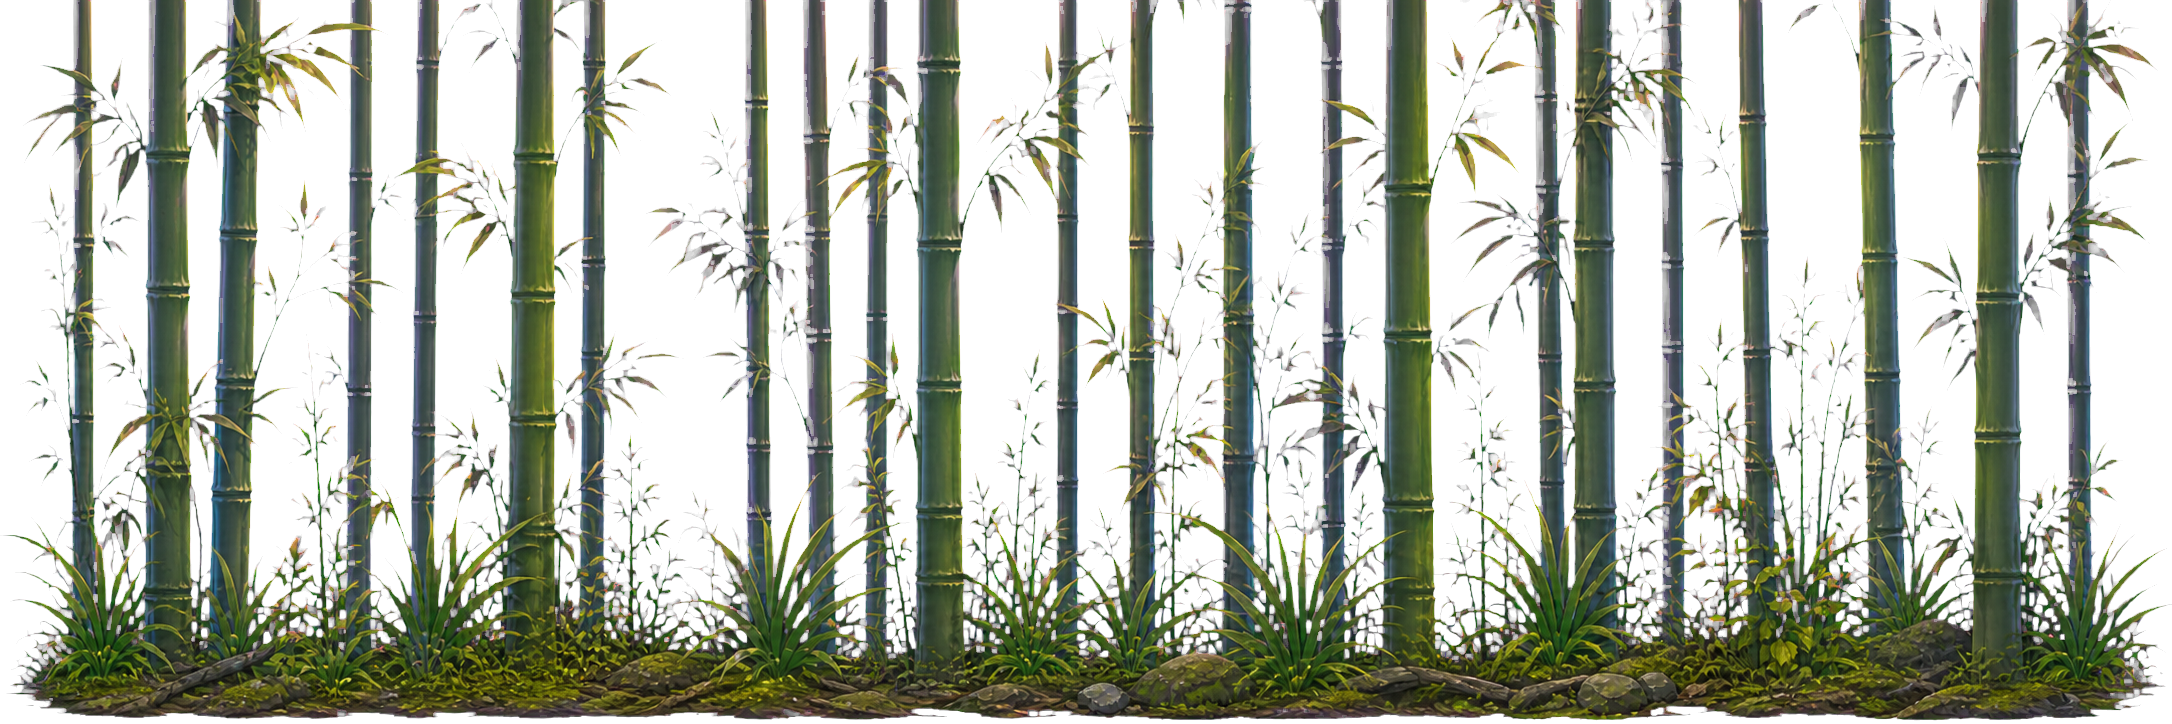
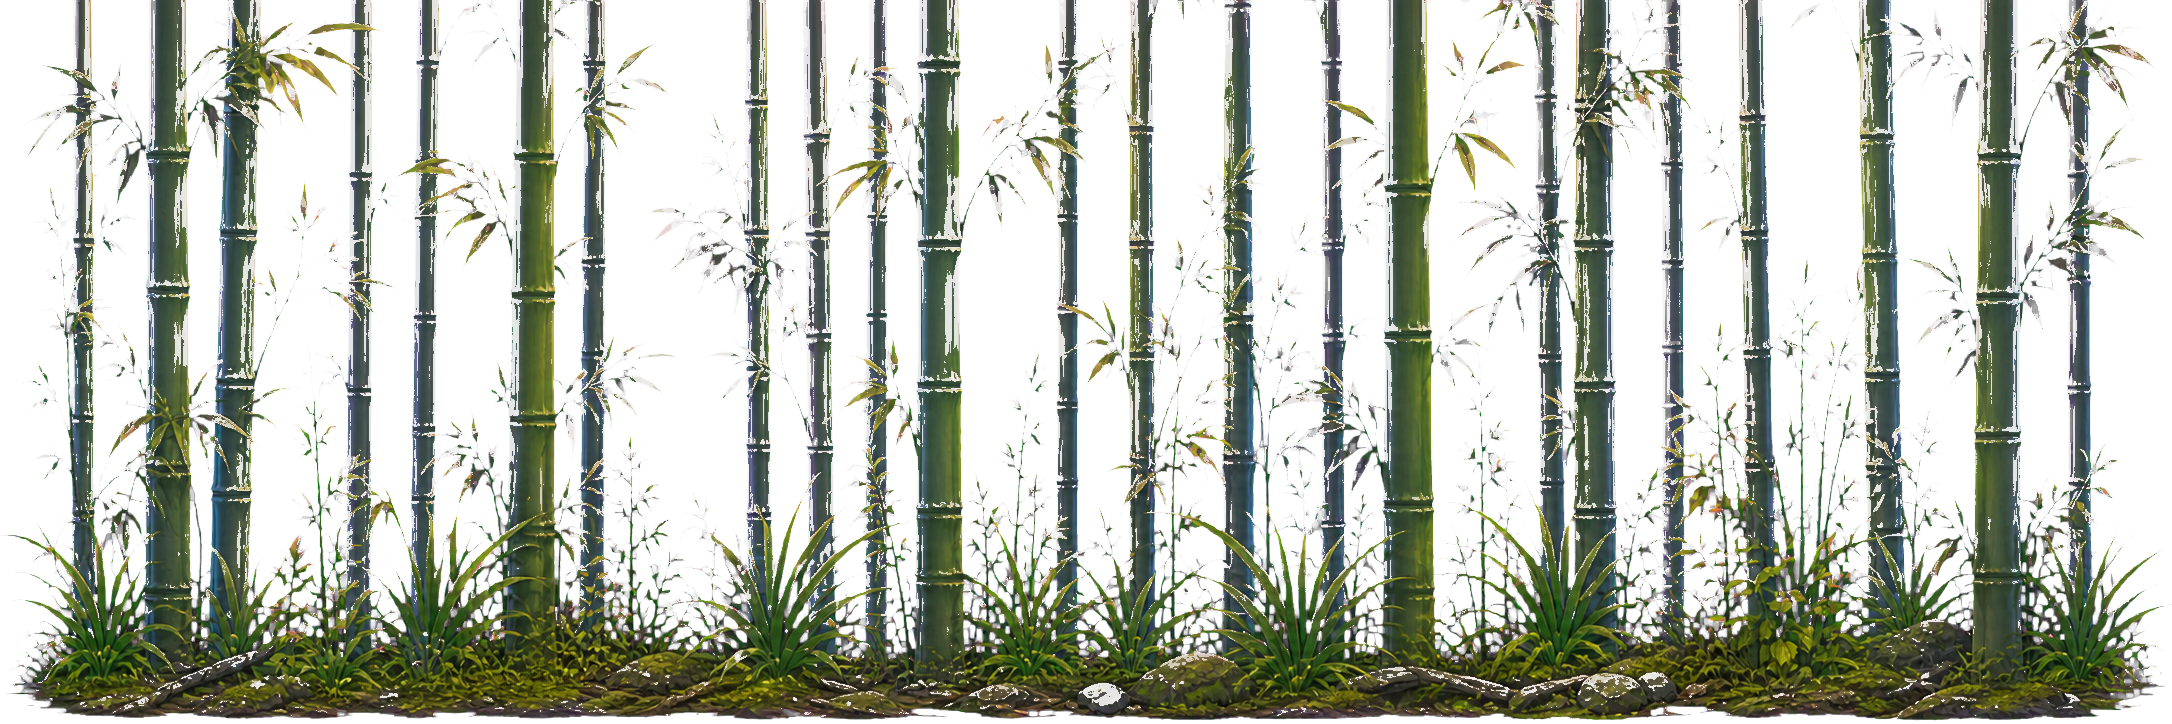
refactor: remove bamboo layer rendering and optimize UI text scaling for mobile responsiveness

diff --git a/js/stage.js b/js/stage.js
@@ -3168,20 +3168,6 @@ export class Stage {
             return false;
         }
 
-        const exitReveal = this.getStage1BambooExitRevealRect();
-        let drawCtx = ctx;
-        let layerCtx = null;
-        if (exitReveal) {
-            this.stage1BambooLayerCanvas ??= document.createElement('canvas');
-            if (this.stage1BambooLayerCanvas.width !== CANVAS_WIDTH || this.stage1BambooLayerCanvas.height !== CANVAS_HEIGHT) {
-                this.stage1BambooLayerCanvas.width = CANVAS_WIDTH;
-                this.stage1BambooLayerCanvas.height = CANVAS_HEIGHT;
-            }
-            layerCtx = this.stage1BambooLayerCanvas.getContext('2d');
-            layerCtx.clearRect(0, 0, CANVAS_WIDTH, CANVAS_HEIGHT);
-            drawCtx = layerCtx;
-        }
-
         const drawStrip = (image, {
             parallax,
             drawHeight,
@@ -3217,65 +3203,65 @@ export class Stage {
                 : 0;
             const drawBentTile = (dx, dy) => {
                 if (bendAmount <= 0) {
-                    drawCtx.drawImage(tileImage, dx, dy);
+                    ctx.drawImage(tileImage, dx, dy);
                     return;
                 }
                 const midStart = Math.floor(drawHeight * 0.34);
                 const lockStart = Math.floor(drawHeight * 0.64);
-                drawCtx.drawImage(tileImage, 0, lockStart, tileWidth, drawHeight - lockStart, dx, dy + lockStart, tileWidth, drawHeight - lockStart);
-                drawCtx.drawImage(tileImage, 0, midStart, tileWidth, lockStart - midStart + 1, dx + bend * 0.38, dy + midStart, tileWidth, lockStart - midStart + 1);
-                drawCtx.drawImage(tileImage, 0, 0, tileWidth, midStart + 1, dx + bend, dy, tileWidth, midStart + 1);
+                ctx.drawImage(tileImage, 0, lockStart, tileWidth, drawHeight - lockStart, dx, dy + lockStart, tileWidth, drawHeight - lockStart);
+                ctx.drawImage(tileImage, 0, midStart, tileWidth, lockStart - midStart + 1, dx + bend * 0.38, dy + midStart, tileWidth, lockStart - midStart + 1);
+                ctx.drawImage(tileImage, 0, 0, tileWidth, midStart + 1, dx + bend, dy, tileWidth, midStart + 1);
             };
 
-            drawCtx.save();
-            drawCtx.globalAlpha *= alpha;
+            ctx.save();
+            ctx.globalAlpha *= alpha;
             const firstTile = Math.floor(scrollWorld / drawWidth) - 1;
             const lastTile = Math.ceil((scrollWorld + CANVAS_WIDTH) / drawWidth) + 1;
             for (let tile = firstTile; tile <= lastTile; tile++) {
                 const x = tile * drawWidth - scrollWorld;
                 if (x + drawWidth < -2 || x > CANVAS_WIDTH + 2) continue;
                 if (mirrorRepeat && Math.abs(tile) % 2 === 1) {
-                    drawCtx.save();
-                    drawCtx.translate(Math.round(x + drawWidth + 2), y);
-                    drawCtx.scale(-1, 1);
+                    ctx.save();
+                    ctx.translate(Math.round(x + drawWidth + 2), y);
+                    ctx.scale(-1, 1);
                     drawBentTile(0, 0);
-                    drawCtx.restore();
+                    ctx.restore();
                 } else {
                     drawBentTile(Math.round(x), y);
                 }
             }
-            drawCtx.restore();
+            ctx.restore();
         };
 
         drawStrip(images.far, {
             parallax: 0.18,
             drawHeight: 720,
             baseOffset: 82,
-            alpha: 0.42,
-            widthScale: 0.44,
+            alpha: 0.22,
+            widthScale: 0.36,
             bendAmount: 0.5,
             bendSpeed: 0.35,
             bendPhase: 0.6,
-            filter: 'brightness(0.76) saturate(0.64) contrast(0.86) hue-rotate(-22deg)'
+            filter: 'brightness(0.86) saturate(0.58) contrast(0.82) hue-rotate(-22deg)'
         });
         drawStrip(images.far, {
             parallax: 0.24,
             drawHeight: 690,
             baseOffset: 80,
-            alpha: 0.1,
-            widthScale: 0.42,
+            alpha: 0.04,
+            widthScale: 0.34,
             phaseOffset: 0.45,
             bendAmount: 0.4,
             bendSpeed: 0.32,
             bendPhase: 2.2,
-            filter: 'brightness(0.72) saturate(0.62) contrast(0.84) hue-rotate(-22deg)'
+            filter: 'brightness(0.82) saturate(0.56) contrast(0.82) hue-rotate(-22deg)'
         });
         drawStrip(images.mid, {
             parallax: 0.44,
             drawHeight: 720,
             baseOffset: 92,
-            alpha: 0.68,
-            widthScale: 0.42,
+            alpha: 0.46,
+            widthScale: 0.34,
             bendAmount: 0.9,
             bendSpeed: 0.45,
             bendPhase: 1.4,
@@ -3285,8 +3271,8 @@ export class Stage {
             parallax: 0.57,
             drawHeight: 690,
             baseOffset: 88,
-            alpha: 0.12,
-            widthScale: 0.4,
+            alpha: 0.04,
+            widthScale: 0.32,
             phaseOffset: 0.38,
             bendAmount: 0.7,
             bendSpeed: 0.42,
@@ -3297,8 +3283,8 @@ export class Stage {
             parallax: 0.82,
             drawHeight: 700,
             baseOffset: 98,
-            alpha: 0.72,
-            widthScale: 0.38,
+            alpha: 0.52,
+            widthScale: 0.3,
             bendAmount: 1.2,
             bendSpeed: 0.52,
             bendPhase: 0,
@@ -3308,8 +3294,8 @@ export class Stage {
             parallax: 0.96,
             drawHeight: 660,
             baseOffset: 94,
-            alpha: 0.08,
-            widthScale: 0.36,
+            alpha: 0.03,
+            widthScale: 0.28,
             phaseOffset: 0.33,
             bendAmount: 0.9,
             bendSpeed: 0.48,
@@ -3317,30 +3303,6 @@ export class Stage {
             filter: 'brightness(0.82) saturate(0.72) contrast(0.92) hue-rotate(-22deg)'
         });
 
-        if (exitReveal && layerCtx) {
-            const cx = exitReveal.x + exitReveal.width * 0.82;
-            const cy = exitReveal.y + exitReveal.height * 0.48;
-            const rx = exitReveal.width * 0.32;
-            const ry = exitReveal.height * 0.48;
-            const fades = [
-                { scale: 1.08, alpha: 0.06 },
-                { scale: 0.9, alpha: 0.14 },
-                { scale: 0.72, alpha: 0.32 },
-                { scale: 0.54, alpha: 0.66 },
-                { scale: 0.38, alpha: 0.98 }
-            ];
-
-            layerCtx.save();
-            layerCtx.globalCompositeOperation = 'destination-out';
-            for (const fade of fades) {
-                layerCtx.fillStyle = `rgba(0,0,0,${fade.alpha})`;
-                layerCtx.beginPath();
-                layerCtx.ellipse(cx, cy, rx * fade.scale, ry * fade.scale, 0, 0, Math.PI * 2);
-                layerCtx.fill();
-            }
-            layerCtx.restore();
-            ctx.drawImage(this.stage1BambooLayerCanvas, 0, 0);
-        }
         return true;
     }
 
@@ -3361,21 +3323,6 @@ export class Stage {
             width: exitW,
             height: exitH
         };
-    }
-
-    getStage1BambooExitRevealRect() {
-        const spec = this.getStage1BambooExitDrawSpec();
-        if (!spec) return null;
-
-        const left = Math.max(0, spec.x + spec.width * 0.5);
-        const right = Math.min(CANVAS_WIDTH, spec.x + spec.width * 0.95);
-        const top = Math.max(0, spec.y + spec.height * 0.1);
-        const bottom = Math.min(this.groundY + 24, spec.y + spec.height * 0.9);
-        const width = right - left;
-        const height = bottom - top;
-
-        if (width <= 2 || height <= 2) return null;
-        return { x: left, y: top, width, height };
     }
 
     renderStage1BambooExit(ctx) {

diff --git a/js/ui.js b/js/ui.js
@@ -2216,6 +2216,11 @@ export function renderLevelUpChoiceScreen(ctx, player, choices, selectedIndex = 
     const CARD_K = 1.5;
     const dk = (v) => v * S * CARD_K;
     const lwk = (v) => Math.max(1, dk(v));
+    // カード内テキストの物理サイズアンカー: スマホ(uiScale>1)では文字だけ拡大する。
+    // カードのボックス・位置・pips は dk() のまま据え置き（右の仮想パッドと衝突させない）。
+    // PC/iPad は uiScale=1 で dkt===dk＝従来と完全一致。
+    const textScale = getUiScale();
+    const dkt = (v) => dk(v) * textScale;
     const lerp = (a, b, t) => a + (b - a) * t;
 
     // --- 角丸パス（キャンバス座標） ---
@@ -2399,8 +2404,8 @@ export function renderLevelUpChoiceScreen(ctx, player, choices, selectedIndex = 
         // タイトル（900 28px 字間.04em 中央）
         ctx.textBaseline = 'alphabetic';
         ctx.fillStyle = '#ffffff';
-        ctx.font = `900 ${dk(28)}px "Zen Old Mincho", serif`;
-        fillLS(choice.title || '', cx, y + dk(60), dk(0.04 * 28), 'center');
+        ctx.font = `900 ${dkt(28)}px "Zen Old Mincho", serif`;
+        fillLS(choice.title || '', cx, y + dk(60), dkt(0.04 * 28), 'center');
 
         // 区切り線（幅56・中央・青の淡グラデ）
         const divHalf = dk(56) / 2;
@@ -2414,11 +2419,11 @@ export function renderLevelUpChoiceScreen(ctx, player, choices, selectedIndex = 
         ctx.beginPath(); ctx.moveTo(cx - divHalf, divY); ctx.lineTo(cx + divHalf, divY); ctx.stroke();
 
         // 説明（500 15px・中央・最大2行・行高1.7）
-        ctx.font = `500 ${dk(15)}px "Zen Old Mincho", serif`;
+        ctx.font = `500 ${dkt(15)}px "Zen Old Mincho", serif`;
         ctx.fillStyle = 'rgba(216, 230, 255, 0.82)';
         ctx.textAlign = 'center';
         ctx.textBaseline = 'middle';
-        const lineH = dk(15 * 1.7);
+        const lineH = dkt(15 * 1.7);
         const subMid = y + dk(130);
         const lines = wrapTextLines(choice.subtitle || '', w - dk(60), 2);
         if (lines.length <= 1) {
@@ -2439,29 +2444,29 @@ export function renderLevelUpChoiceScreen(ctx, player, choices, selectedIndex = 
             // 効果時間（ラベル＋数値＋秒 を横1行・中央）
             ctx.textBaseline = 'middle';
             const label = '効果時間', valNum = String(choice.durationSec), valUnit = '秒';
-            const labelLs = dk(0.12 * 13);
-            ctx.font = `500 ${dk(13)}px "Zen Old Mincho", serif`;
+            const labelLs = dkt(0.12 * 13);
+            ctx.font = `500 ${dkt(13)}px "Zen Old Mincho", serif`;
             const labelW = measureLS(label, labelLs);
-            ctx.font = `700 ${dk(21)}px "Zen Old Mincho", serif`;
+            ctx.font = `700 ${dkt(21)}px "Zen Old Mincho", serif`;
             const numW = ctx.measureText(valNum).width;
-            ctx.font = `500 ${dk(13)}px "Zen Old Mincho", serif`;
+            ctx.font = `500 ${dkt(13)}px "Zen Old Mincho", serif`;
             const unitW = ctx.measureText(valUnit).width;
             const innerGap = dk(10), unitGap = dk(2);
             const totalRowW = labelW + innerGap + numW + unitGap + unitW;
             let tx = cx - totalRowW / 2;
 
-            ctx.font = `500 ${dk(13)}px "Zen Old Mincho", serif`;
+            ctx.font = `500 ${dkt(13)}px "Zen Old Mincho", serif`;
             ctx.fillStyle = 'rgba(180, 200, 236, 0.7)';
             fillLS(label, tx, footMid, labelLs, 'left');
             tx += labelW + innerGap;
 
             ctx.textAlign = 'left';
-            ctx.font = `700 ${dk(21)}px "Zen Old Mincho", serif`;
+            ctx.font = `700 ${dkt(21)}px "Zen Old Mincho", serif`;
             ctx.fillStyle = '#c4e8ff';
             ctx.fillText(valNum, tx, footMid);
             tx += numW + unitGap;
 
-            ctx.font = `500 ${dk(13)}px "Zen Old Mincho", serif`;
+            ctx.font = `500 ${dkt(13)}px "Zen Old Mincho", serif`;
             ctx.fillStyle = 'rgba(196, 232, 255, 0.7)';
             ctx.fillText(valUnit, tx, footMid + dk(2));
 
@@ -2501,10 +2506,10 @@ export function renderLevelUpChoiceScreen(ctx, player, choices, selectedIndex = 
             // 段位ラベル（700 16px 字間.05em・ピップ下 margin15）
             ctx.textBaseline = 'alphabetic';
             ctx.fillStyle = '#cfe2ff';
-            ctx.font = `700 ${dk(16)}px "Zen Old Mincho", serif`;
+            ctx.font = `700 ${dkt(16)}px "Zen Old Mincho", serif`;
             const cur = tierLabels[Math.min(level, 3)];
             const nxt = tierLabels[Math.min(level + 1, 3)];
-            fillLS(`${cur} → ${nxt}`, cx, pipsY + pipH + dk(15) + dk(13), dk(0.05 * 16), 'center');
+            fillLS(`${cur} → ${nxt}`, cx, pipsY + pipH + dk(15) + dk(13), dkt(0.05 * 16), 'center');
         }
 
     });

diff --git a/js/main.js b/js/main.js
@@ -2,7 +2,7 @@
 // Unification of the Nation - メインエントリーポイント
 // ============================================
 
-import { game } from './game.js?v=20260703-p3';
+import { game } from './game.js?v=20260703-p3d';
 import { preloadCinematicBgImages } from './ui.js';
 import { getDeviceProfile } from './constants.js';
 

diff --git a/index.html b/index.html
@@ -57,6 +57,6 @@
         </div>
     </div>
 
-    <script type="module" src="js/main.js?v=20260703_p3"></script>
+    <script type="module" src="js/main.js?v=20260703_p3d"></script>
 </body>
 </html>
